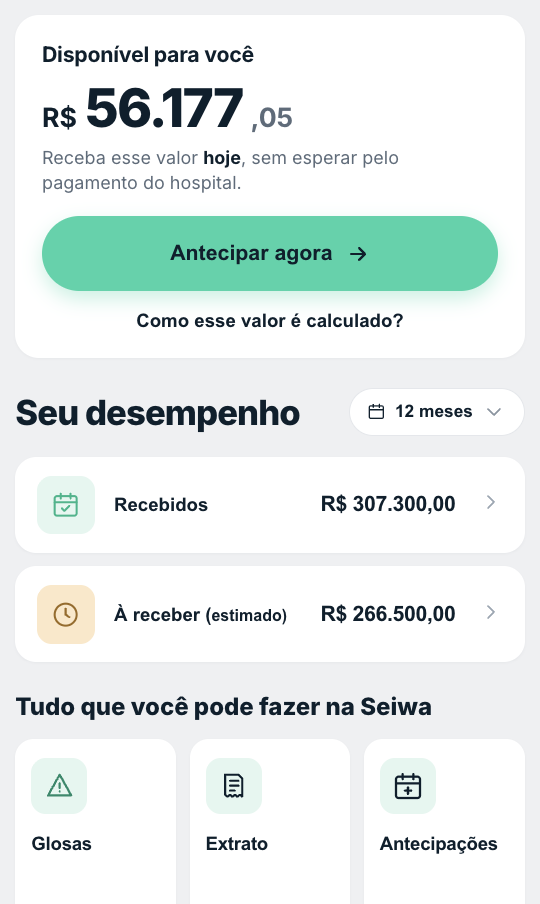
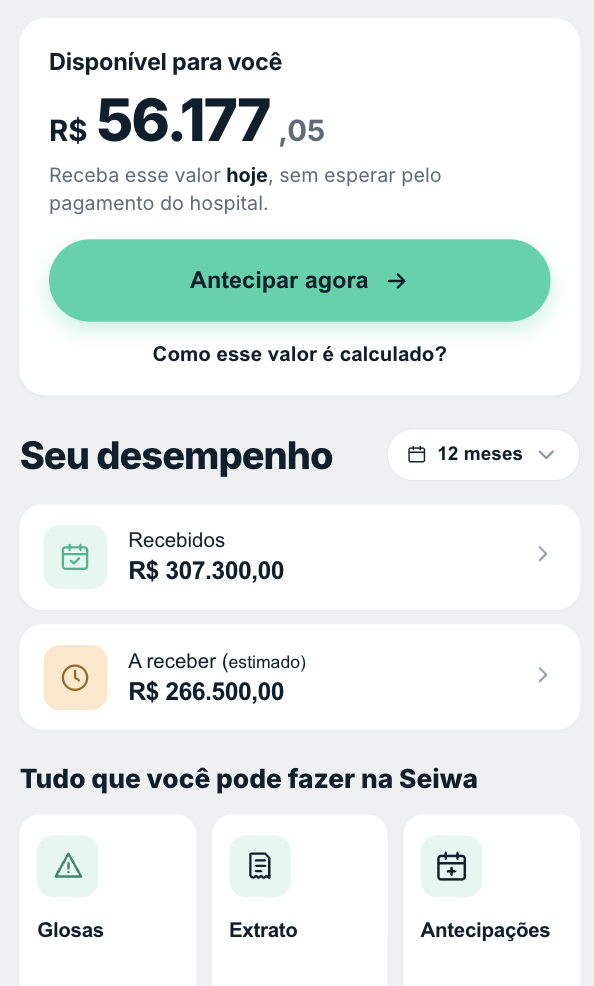
Home: atualiza screenshot (A receber sem acento) + cache-bust ?v=2

diff --git a/index.html b/index.html
@@ -526,7 +526,7 @@ footer p{font-size:14px;max-width:42ch;margin:0 auto 6px}
     </div>
     <div class="home-layout">
       <div class="device reveal"><div class="scr" id="homeScr">
-        <img src="assets/home.png" alt="Tela inicial do app Seiwa com os indicadores de recebimentos, glosas, saldo e antecipação">
+        <img src="assets/home.png?v=2" alt="Tela inicial do app Seiwa com os indicadores de recebimentos, glosas, saldo e antecipação">
         <span class="hl-box" id="hl"></span>
         <div class="home-alt" id="screenMenu">
           <div class="alt-h">Tudo que você pode fazer na Seiwa</div>